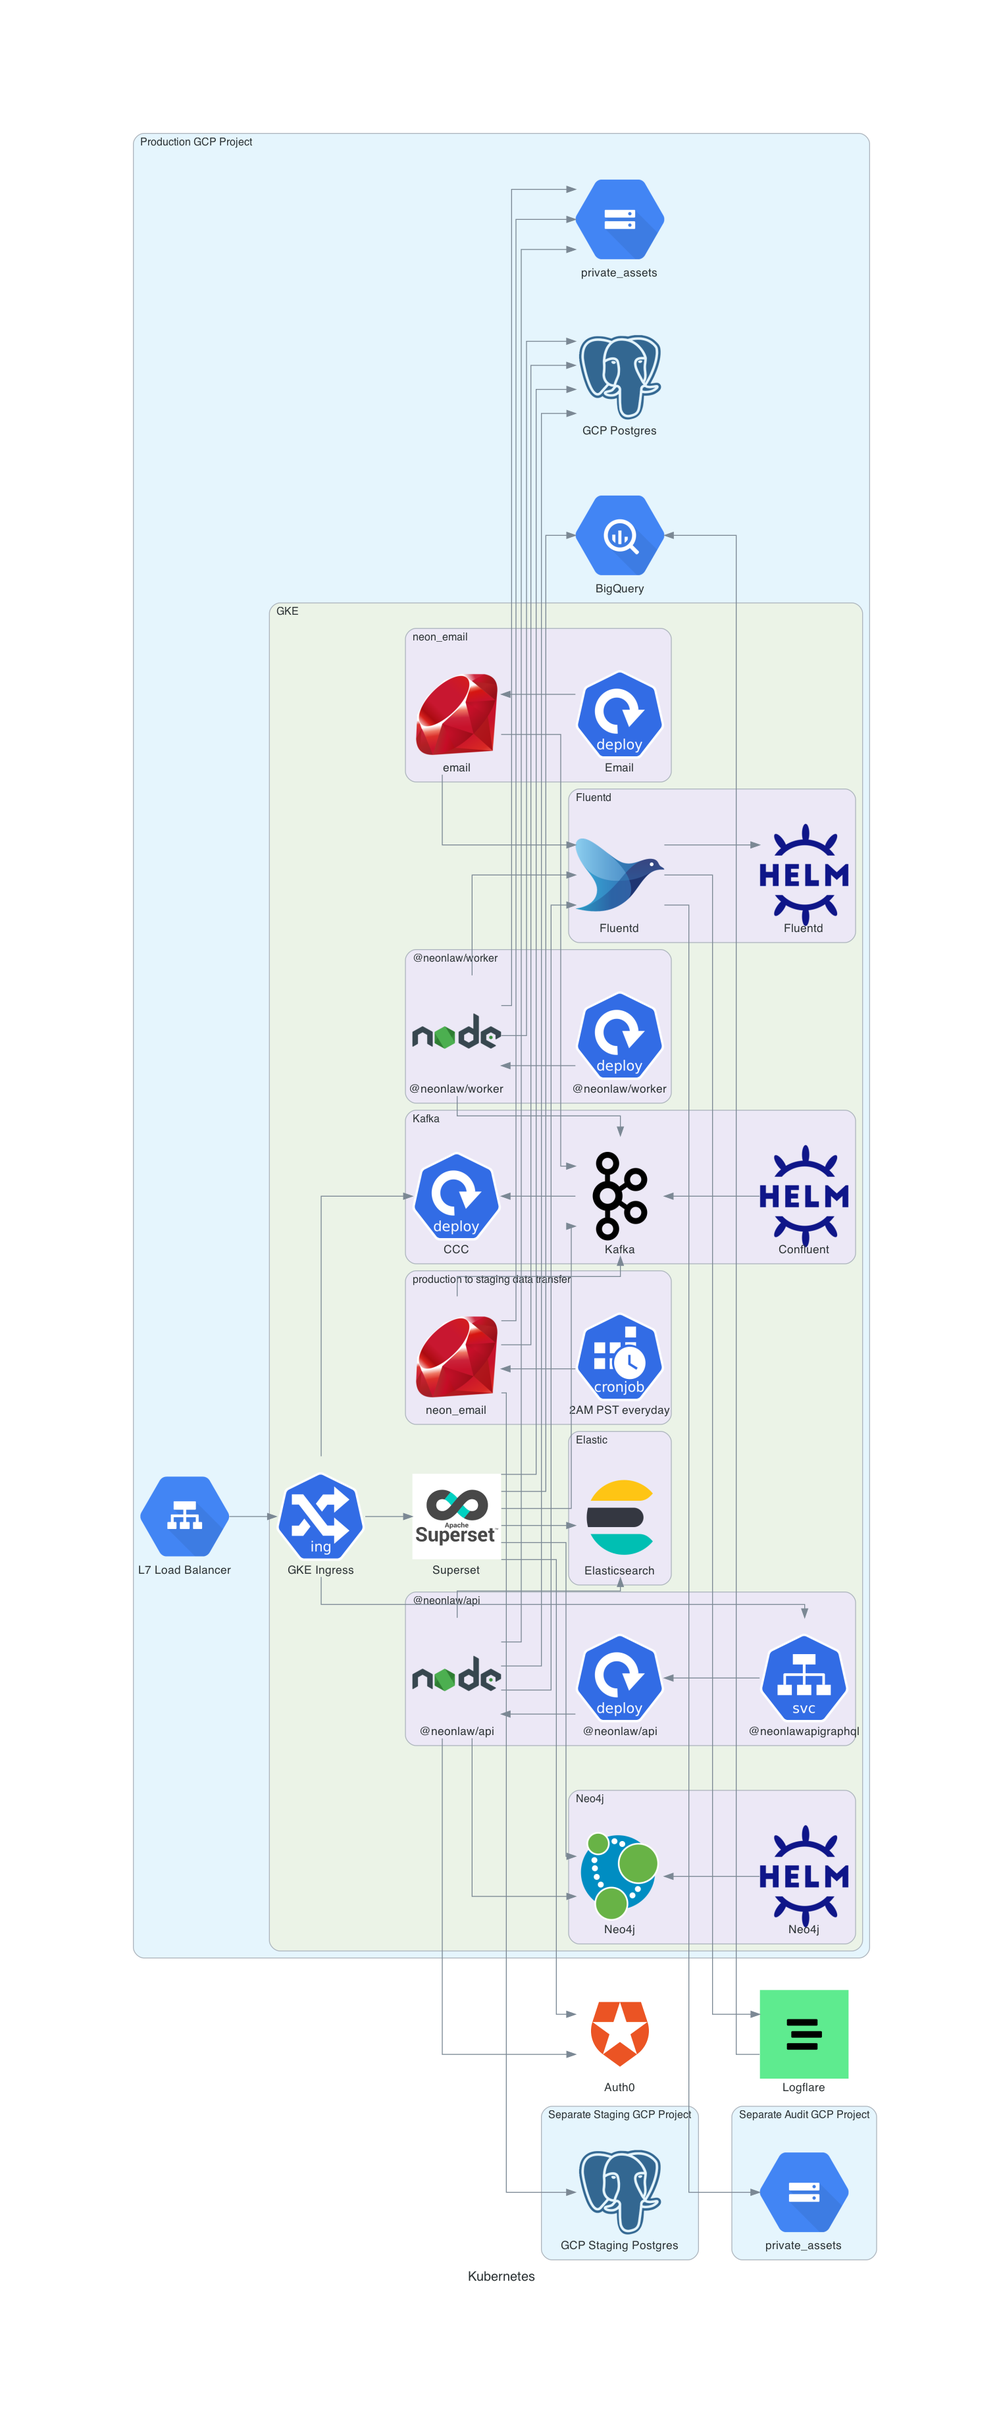
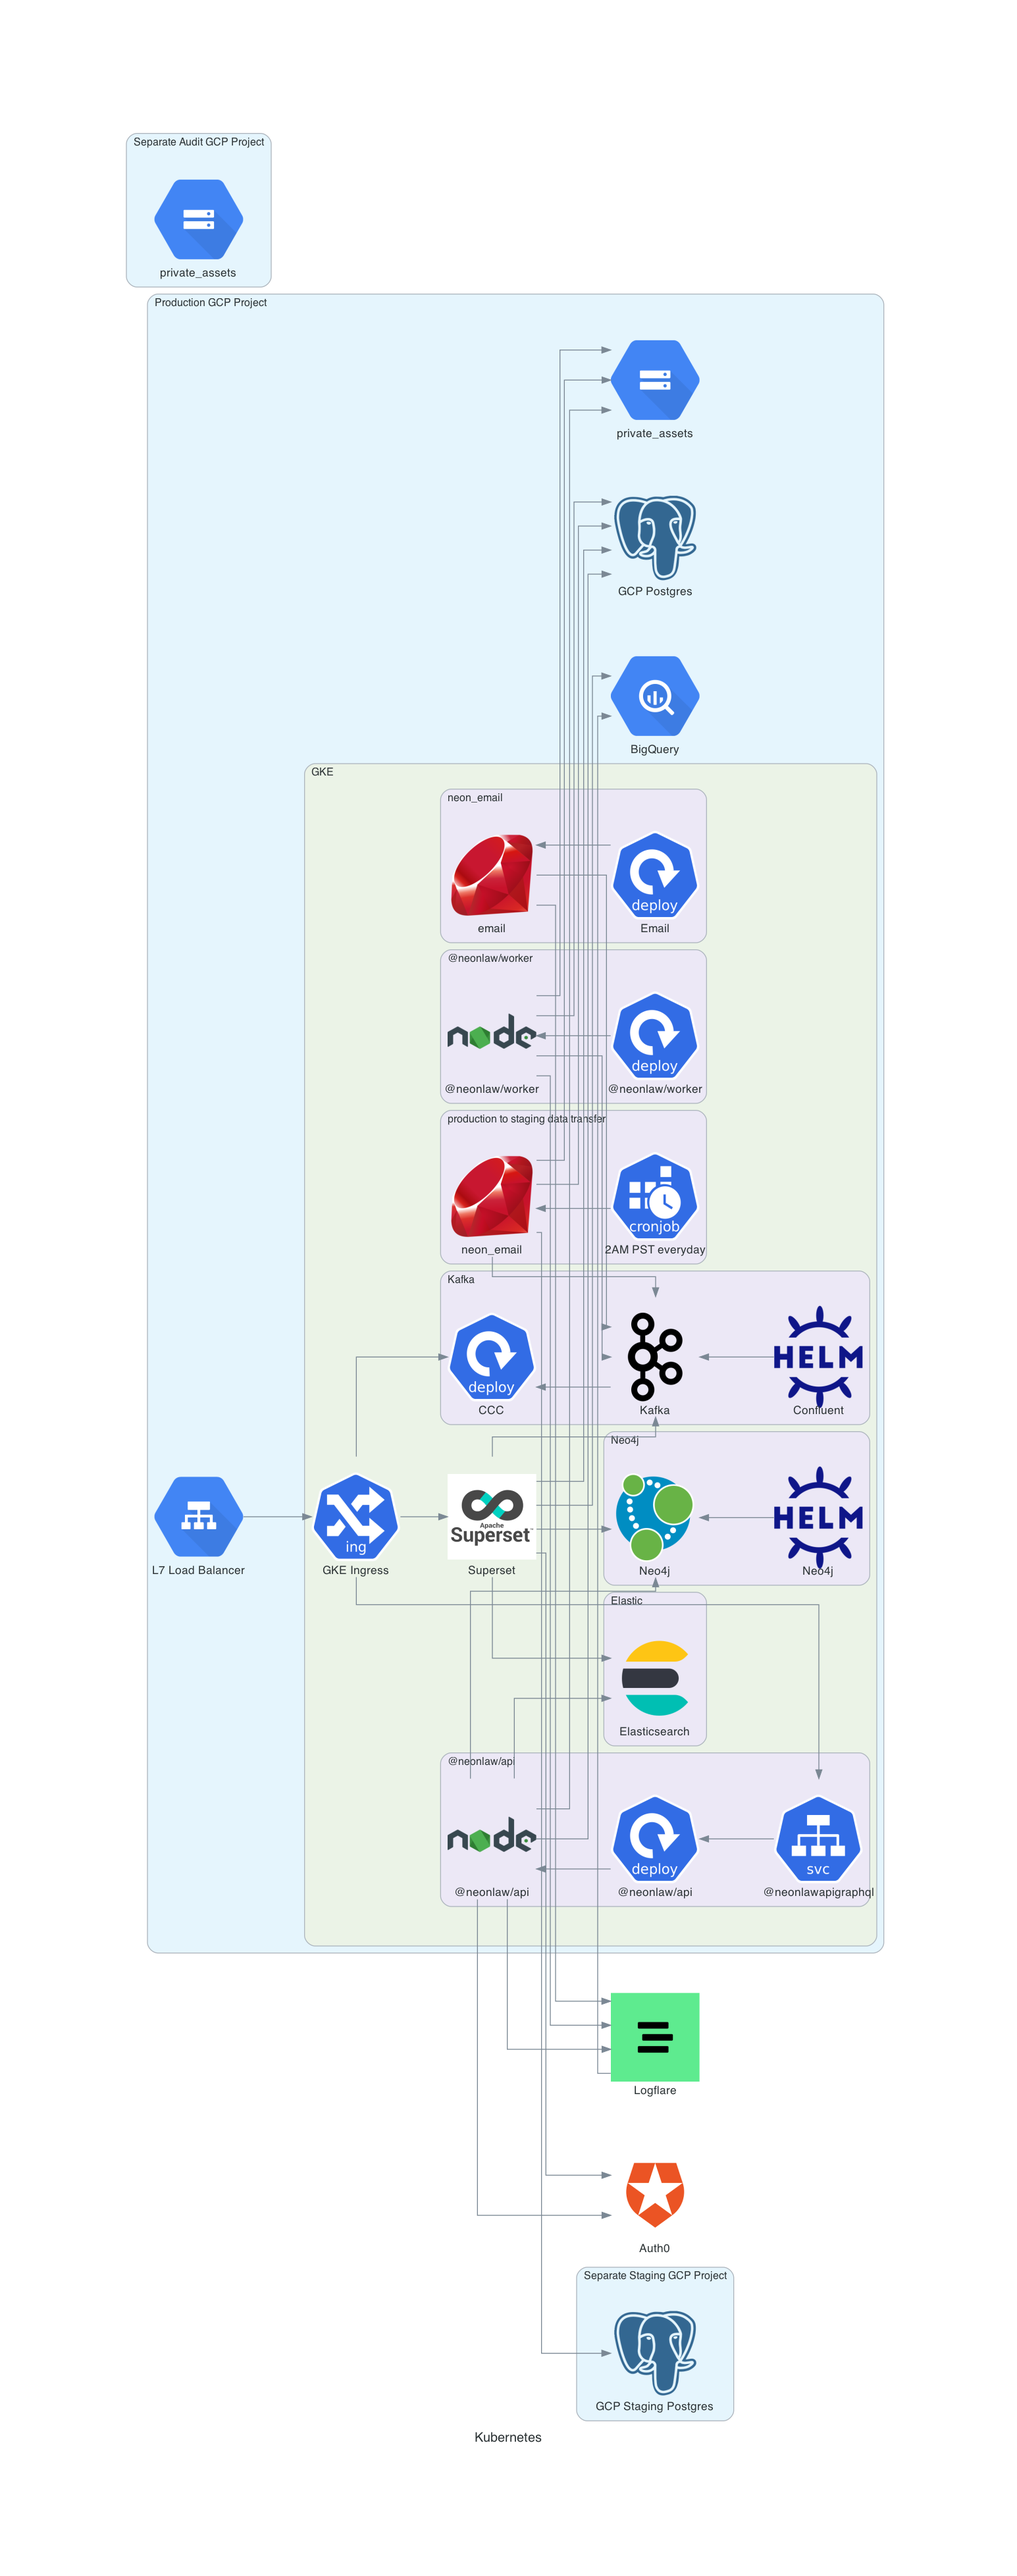
remove fluentbit

Changed region(s): [[0.1234, 0.0311, 0.8944, 0.9632], [0.7402, 0.3107, 0.8635, 0.4039], [0.4626, 0.9321, 0.5243, 0.9632]]

diff --git a/diagrams/neon_diagrams/k8s_diagram.py b/diagrams/neon_diagrams/k8s_diagram.py
@@ -1,6 +1,5 @@
 from diagrams import Cluster, Diagram
 from diagrams.custom import Custom
-from diagrams.onprem.aggregator import Fluentd
 from diagrams.k8s.compute import Deployment, Cronjob
 from diagrams.k8s.network import Service, Ingress
 from diagrams.k8s.ecosystem import Helm
@@ -47,13 +46,6 @@ with Diagram("Kubernetes", filename=f"{web_images_path}/k8s_diagram"):
             with Cluster("Elastic"):
                 search = Elasticsearch("Elasticsearch")
 
-            with Cluster("Fluentd"):
-                fluentd = Fluentd("Fluentd")
-
-                fluentd >> audit_bucket
-                fluentd >> logflare
-                fluentd >> Helm("Fluentd")
-
             with Cluster("@neonlaw/api"):
                 api_package = NodeJS("@neonlaw/api")
                 api = (
@@ -79,7 +71,7 @@ with Diagram("Kubernetes", filename=f"{web_images_path}/k8s_diagram"):
                 data_copy = data_copy_package << Cronjob("2AM PST everyday")
 
             [api_package, superset] >> auth0
-            [api_package, worker_package, email_package] >> fluentd
+            [api_package, worker_package, email_package] >> logflare
             [api_package, worker_package, data_copy_package] >> postgres
             [api_package, worker_package, data_copy_package] >> private_asset_bucket
             [worker_package, email_package, data_copy_package] >> kafka
